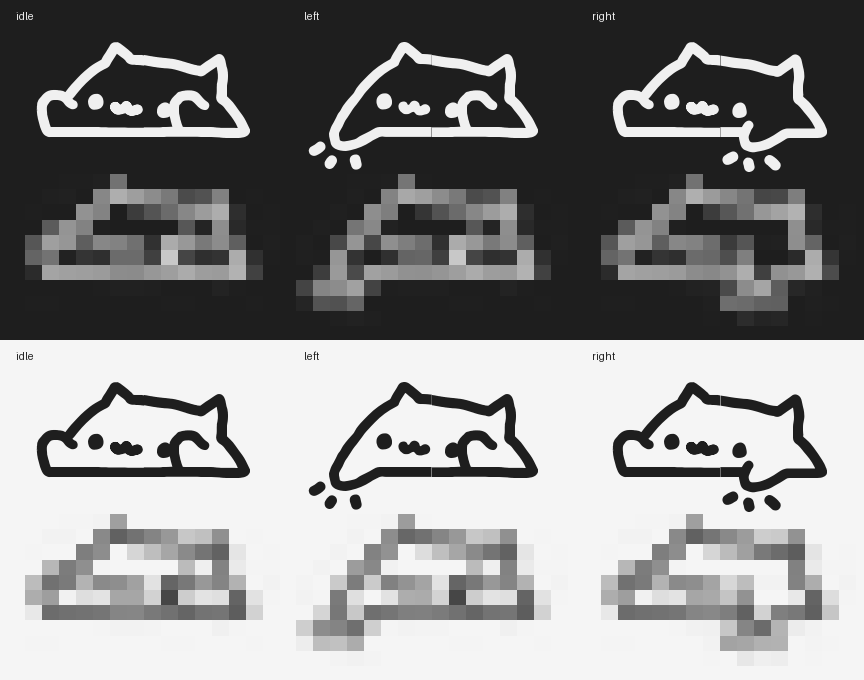
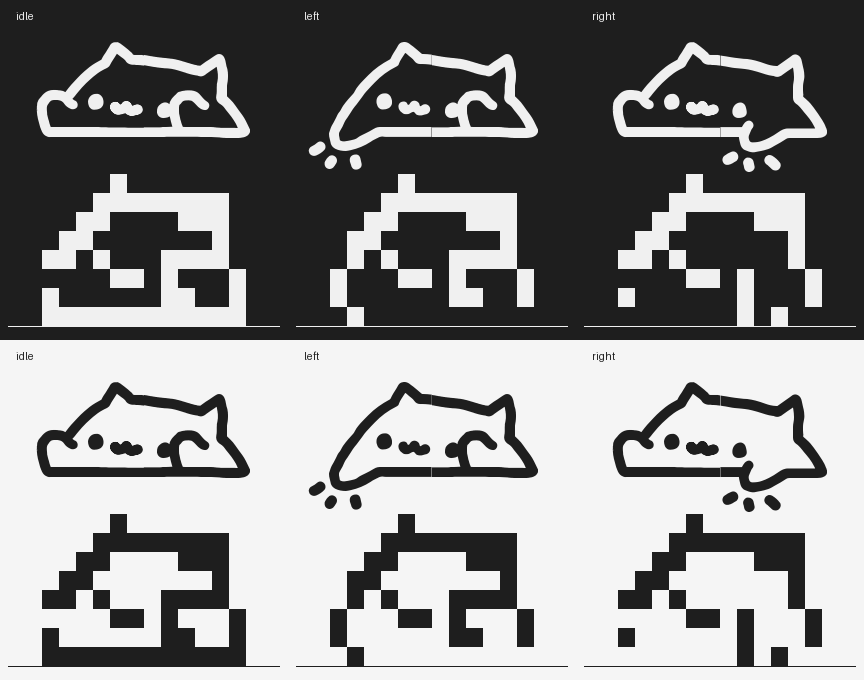
fix(assets): register compact paws on divider

diff --git a/tools/test_assets.py b/tools/test_assets.py
@@ -33,6 +33,45 @@ def test_font_matches_audited_source() -> None:
     assert actual == FONT_SHA256
 
 
+@pytest.mark.parametrize("name", ["idle", "left", "right"])
+def test_compact_pose_contacts_the_next_row(name: str) -> None:
+    # Given: a runtime pose placed immediately above a terminal divider.
+    cells = json.loads((OUTPUT / "compact-cells.json").read_text(encoding="utf-8"))
+    # When: reading its bottom rendered row.
+    bottom = cells["frames"][name]["monochrome_rows"][-1]
+    # Then: visible ink reaches the lower half; no blank row or half-row remains.
+    assert any(glyph in "▄█" for glyph in bottom)
+
+
+@pytest.mark.parametrize("name", ["idle", "left", "right"])
+def test_compact_bottom_row_preserves_outline_space(name: str) -> None:
+    # Given: the bottom terminal cell row, consisting of two alpha samples.
+    cells = json.loads((OUTPUT / "compact-cells.json").read_text(encoding="utf-8"))
+    samples = bytes.fromhex("".join(cells["frames"][name]["alpha_rows"][-2:]))
+    # When: counting visible ink in the bottom row.
+    fill_ratio = sum(alpha >= 96 for alpha in samples) / len(samples)
+    # Then: at least half stays open, rejecting a solid rectangular base.
+    assert fill_ratio <= 0.5
+
+
+@pytest.mark.parametrize("pair,start,stop", [("dc", 11, 16), ("ba", 0, 6)])
+def test_compact_strike_preserves_unchanged_head_and_eye(
+    pair: str, start: int, stop: int,
+) -> None:
+    # Given: idle and strike poses with one identical original glyph half.
+    font = load_font()
+    idle = cell_frame(render_frame("bc", font), COMPACT_PIXELS, "idle")
+    # When: downsampling the strike into the runtime cells.
+    strike = cell_frame(render_frame(pair, font), COMPACT_PIXELS, {"dc": "left", "ba": "right"}[pair])
+    # Then: coverage remains registered (one alpha level of Lanczos seam rounding).
+    for idle_row, strike_row in zip(idle["alpha_rows"][:7], strike["alpha_rows"][:7], strict=True):
+        for idle_alpha, strike_alpha in zip(
+            bytes.fromhex(idle_row)[start:stop], bytes.fromhex(strike_row)[start:stop], strict=True,
+        ):
+            assert abs(idle_alpha - strike_alpha) <= 1
+            assert (idle_alpha >= 96) == (strike_alpha >= 96)
+
+
 @pytest.mark.parametrize("pair,changed_half", [("dc", 0), ("ba", 1)])
 def test_strike_changes_only_its_paw_half(pair: str, changed_half: int) -> None:
     # Given: the original idle glyphs, rendered from their source outlines.
@@ -65,10 +104,20 @@ def test_cell_samples_preserve_png_alpha(name: str, pixels: tuple[int, int]) -> 
         assert image.mode == "RGBA"
         assert image.size == CANVAS
         # When: converting to the cell renderer contract.
-        cells = cell_frame(image, pixels)
+        cells = cell_frame(image, pixels, name)
         # Then: decoded rows equal the filtered source alpha byte for byte.
-        expected = image.getchannel("A").resize(pixels, Image.Resampling.LANCZOS)
-        assert bytes.fromhex("".join(cells["alpha_rows"])) == expected.tobytes()
+        source = image.getchannel("A")
+        if pixels == COMPACT_PIXELS:
+            # Fixed source coordinates lock upper head/body/eyes to one mapping.
+            expected = Image.new("L", (16, 8))
+            expected.paste(source.crop((0, 8, 272, 96)).resize((16, 7), Image.Resampling.LANCZOS))
+            top, bottom = {"idle": (100, 104), "left": (124, 133), "right": (127, 135)}[name]
+            expected.paste(source.crop((0, top, 272, bottom)).resize((16, 1), Image.Resampling.BOX), (0, 7))
+            actual = bytes.fromhex("".join(cells["alpha_rows"]))
+        else:
+            expected = source.resize(pixels, Image.Resampling.LANCZOS)
+            actual = bytes.fromhex("".join(cells["alpha_rows"]))
+        assert actual == expected.tobytes()
         assert len(cells["monochrome_rows"]) == pixels[1] // 2
         assert all(len(row) == pixels[0] for row in cells["monochrome_rows"])
 
@@ -87,7 +136,7 @@ def test_manifest_and_cells_match_published_files(
     derived = {}
     for name in ("idle", "left", "right"):
         with Image.open(OUTPUT / f"{name}.png") as image:
-            derived[name] = cell_frame(image, pixels)
+            derived[name] = cell_frame(image, pixels, name)
     # Then: no stale output, generator, or frame encoding can pass.
     assert actual == manifest["outputs"]
     assert manifest["generator_sha256"] == sha256(Path(__file__).with_name("generate_assets.py"))

diff --git a/tools/generate_assets.py b/tools/generate_assets.py
@@ -30,7 +30,8 @@ CANVAS: Final = (272, 152)
 ORIGIN: Final = (8, 128)
 EM_SIZE: Final = 128
 CELL_PIXELS: Final = (34, 20)
-COMPACT_PIXELS: Final = (16, 10)
+COMPACT_PIXELS: Final = (16, 8)
+CONTACT_WINDOWS: Final = {"idle": (100, 104), "left": (124, 133), "right": (127, 135)}
 MONO_THRESHOLD: Final = 96
 
 
@@ -80,9 +81,24 @@ def render_frame(pair: str, font: ImageFont.FreeTypeFont) -> Image.Image:
     return frame
 
 
-def cell_frame(frame: Image.Image, pixels: tuple[int, int] = CELL_PIXELS) -> CellFrame:
+def sample_alpha(frame: Image.Image, pixels: tuple[int, int], pose: str) -> Image.Image:
+    """Keep common upper geometry and average only the pose's narrow contact strip."""
+    alpha = frame.getchannel("A")
+    if pixels == COMPACT_PIXELS:
+        compact = Image.new("L", COMPACT_PIXELS)
+        compact.paste(alpha.crop((0, 8, 272, 96)).resize(
+            (16, 7), Image.Resampling.LANCZOS,
+        ), (0, 0))
+        top, bottom = CONTACT_WINDOWS[pose]
+        contact = alpha.crop((0, top, 272, bottom)).resize((16, 1), Image.Resampling.BOX)
+        compact.paste(contact, (0, 7))
+        return compact
+    return alpha.resize(pixels, Image.Resampling.LANCZOS)
+
+
+def cell_frame(frame: Image.Image, pixels: tuple[int, int], pose: str) -> CellFrame:
     """Store theme-independent alpha coverage; each cell has two samples."""
-    alpha = frame.getchannel("A").resize(pixels, Image.Resampling.LANCZOS)
+    alpha = sample_alpha(frame, pixels, pose)
     width, height = alpha.size
     samples = alpha.tobytes()
     rows = [samples[y * width:(y + 1) * width] for y in range(height)]
@@ -116,9 +132,11 @@ def preview(
             draw.text((left + 8, top + 10), name, fill=foreground)
             ink = Image.new("RGB", frame.size, foreground)
             sheet.paste(ink, (left, top + 34), frame.getchannel("A"))
-            pixels = frame.getchannel("A").resize(
-                cell_pixels, Image.Resampling.LANCZOS,
-            ).resize(CANVAS, Image.Resampling.NEAREST)
+            samples = sample_alpha(frame, cell_pixels, name)
+            if cell_pixels == COMPACT_PIXELS:
+                samples = samples.point(lambda alpha: 255 if alpha >= MONO_THRESHOLD else 0)
+                draw.line((left, top + 326, left + 271, top + 326), fill=foreground)
+            pixels = samples.resize(CANVAS, Image.Resampling.NEAREST)
             sheet.paste(ink, (left, top + 174), pixels)
     return sheet
 
@@ -138,7 +156,7 @@ def main() -> None:
             "encoding": "alpha8-hex-rows-top-to-bottom",
             "foreground_rgb": [255, 255, 255],
             "monochrome_threshold": MONO_THRESHOLD,
-            "frames": {name: cell_frame(frame, pixels)
+            "frames": {name: cell_frame(frame, pixels, name)
                        for name, frame in zip(POSES, frames, strict=True)},
         }
         (OUTPUT / filename).write_text(
@@ -150,7 +168,7 @@ def main() -> None:
     products = [*(f"{name}.png" for name in POSES), "cells.json", "preview.png",
                 "compact-cells.json", "compact-preview.png"]
     manifest = {
-        "schema_version": 1, "generator_version": 1,
+        "schema_version": 1, "generator_version": 4,
         "generator_sha256": sha256(Path(__file__)),
         "source_repository": "https://github.com/kitgore/BongoCat",
         "source_commit": "20e59c96cd25e4dcc098a5ab908bb27cdd4caabc",
@@ -165,6 +183,16 @@ def main() -> None:
         "palette_rgba": [255, 255, 255, 255],
         "cell_pixels": list(CELL_PIXELS),
         "compact_cell_pixels": list(COMPACT_PIXELS),
+        "compact_shared_mapping": {
+            "upper_source_box": [0, 8, 272, 96],
+            "upper_output_box": [0, 0, 16, 7],
+            "upper_filter": "Lanczos",
+            "contact_source_boxes": {name: [0, top, 272, bottom]
+                                     for name, (top, bottom) in CONTACT_WINDOWS.items()},
+            "contact_output_row": 7,
+            "contact_filter": "BOX area average to 16 by 1; no maximum pooling",
+            "source_boxes_half_open": True,
+        },
         "outputs": {name: sha256(OUTPUT / name) for name in products},
     }
     (OUTPUT / "manifest.json").write_text(

diff --git a/assets/README.md b/assets/README.md
@@ -35,10 +35,22 @@ uses dark `#1e1e1e` with `#f0f0f0` ink, and light `#f5f5f5` with `#1e1e1e` ink.
   These rows preserve all three paw states without requiring truecolor.
 
 For runtime use in small terminal layouts, prefer `generated/compact-cells.json`:
-it has the same schema at **16 columns × 5 rows**, with ten alpha rows of sixteen
-bytes (32 hex characters each), and five monochrome rows of sixteen characters.
-`generated/compact-preview.png` compares the original art with this smaller
-approximation on both themes. `cells.json` remains the larger reference variant.
+it has the same schema at **16 columns × 4 rows**, with eight alpha rows of sixteen
+bytes (32 hex characters each), and four monochrome rows of sixteen characters.
+Every pose uses the **same upper source coordinates and filtering**. Original
+pixels y=8..95 become the first seven samples through Lanczos resizing. The eighth
+sample is an area average (BOX filter) of a narrow original contact strip: idle
+y=100..103, left y=124..132, right y=127..134. Sampling the idle baseline only once
+keeps its line thin; averaging narrow paw/droplet strips keeps strikes sparse.
+Only that final half-cell uses pose-specific contact registration. Head/body/eye
+coordinates and scale remain identical across all three frames.
+Its lowest visible pixel reaches the bottom half of the last cell, so placing
+the frame immediately above a divider leaves no empty row or half-row. The
+compact contact band compresses strike marks; the raster PNGs retain the full
+original outlines at their common source baseline.
+`generated/compact-preview.png` compares original art with the exact thresholded
+monochrome approximation touching a divider on both themes. `cells.json` remains
+the larger reference variant with its original canvas padding.
 
 The cells are an approximation of the original font. Actual terminal rendering,
 font metrics, placement, background restoration, and host compatibility require
